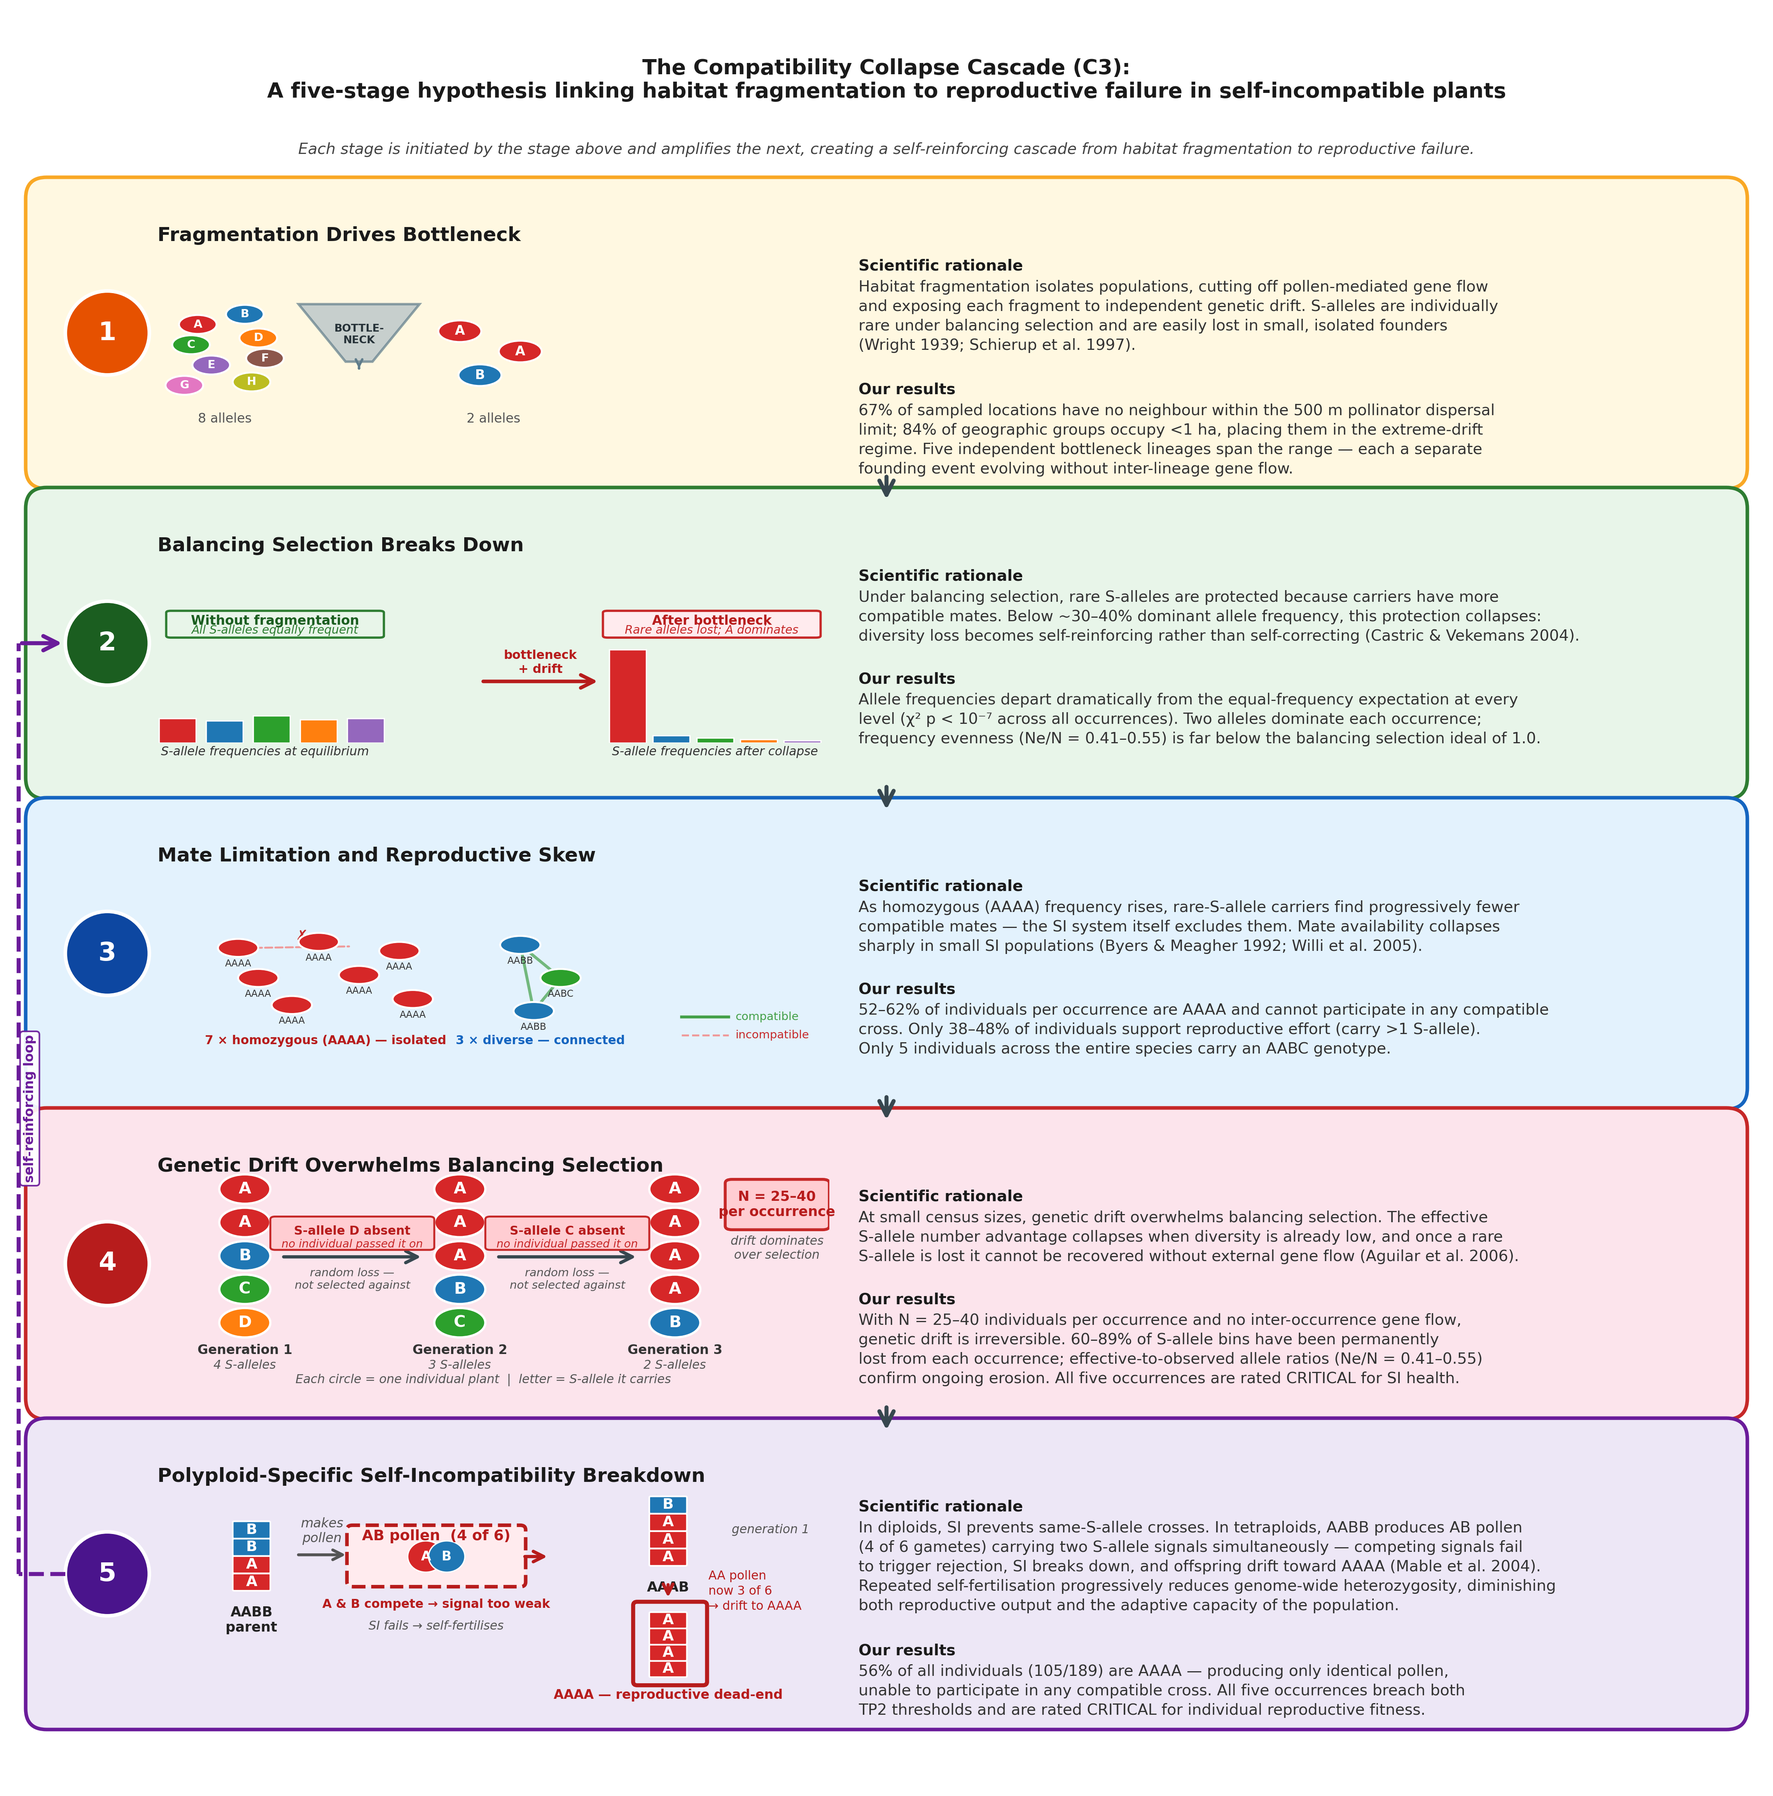
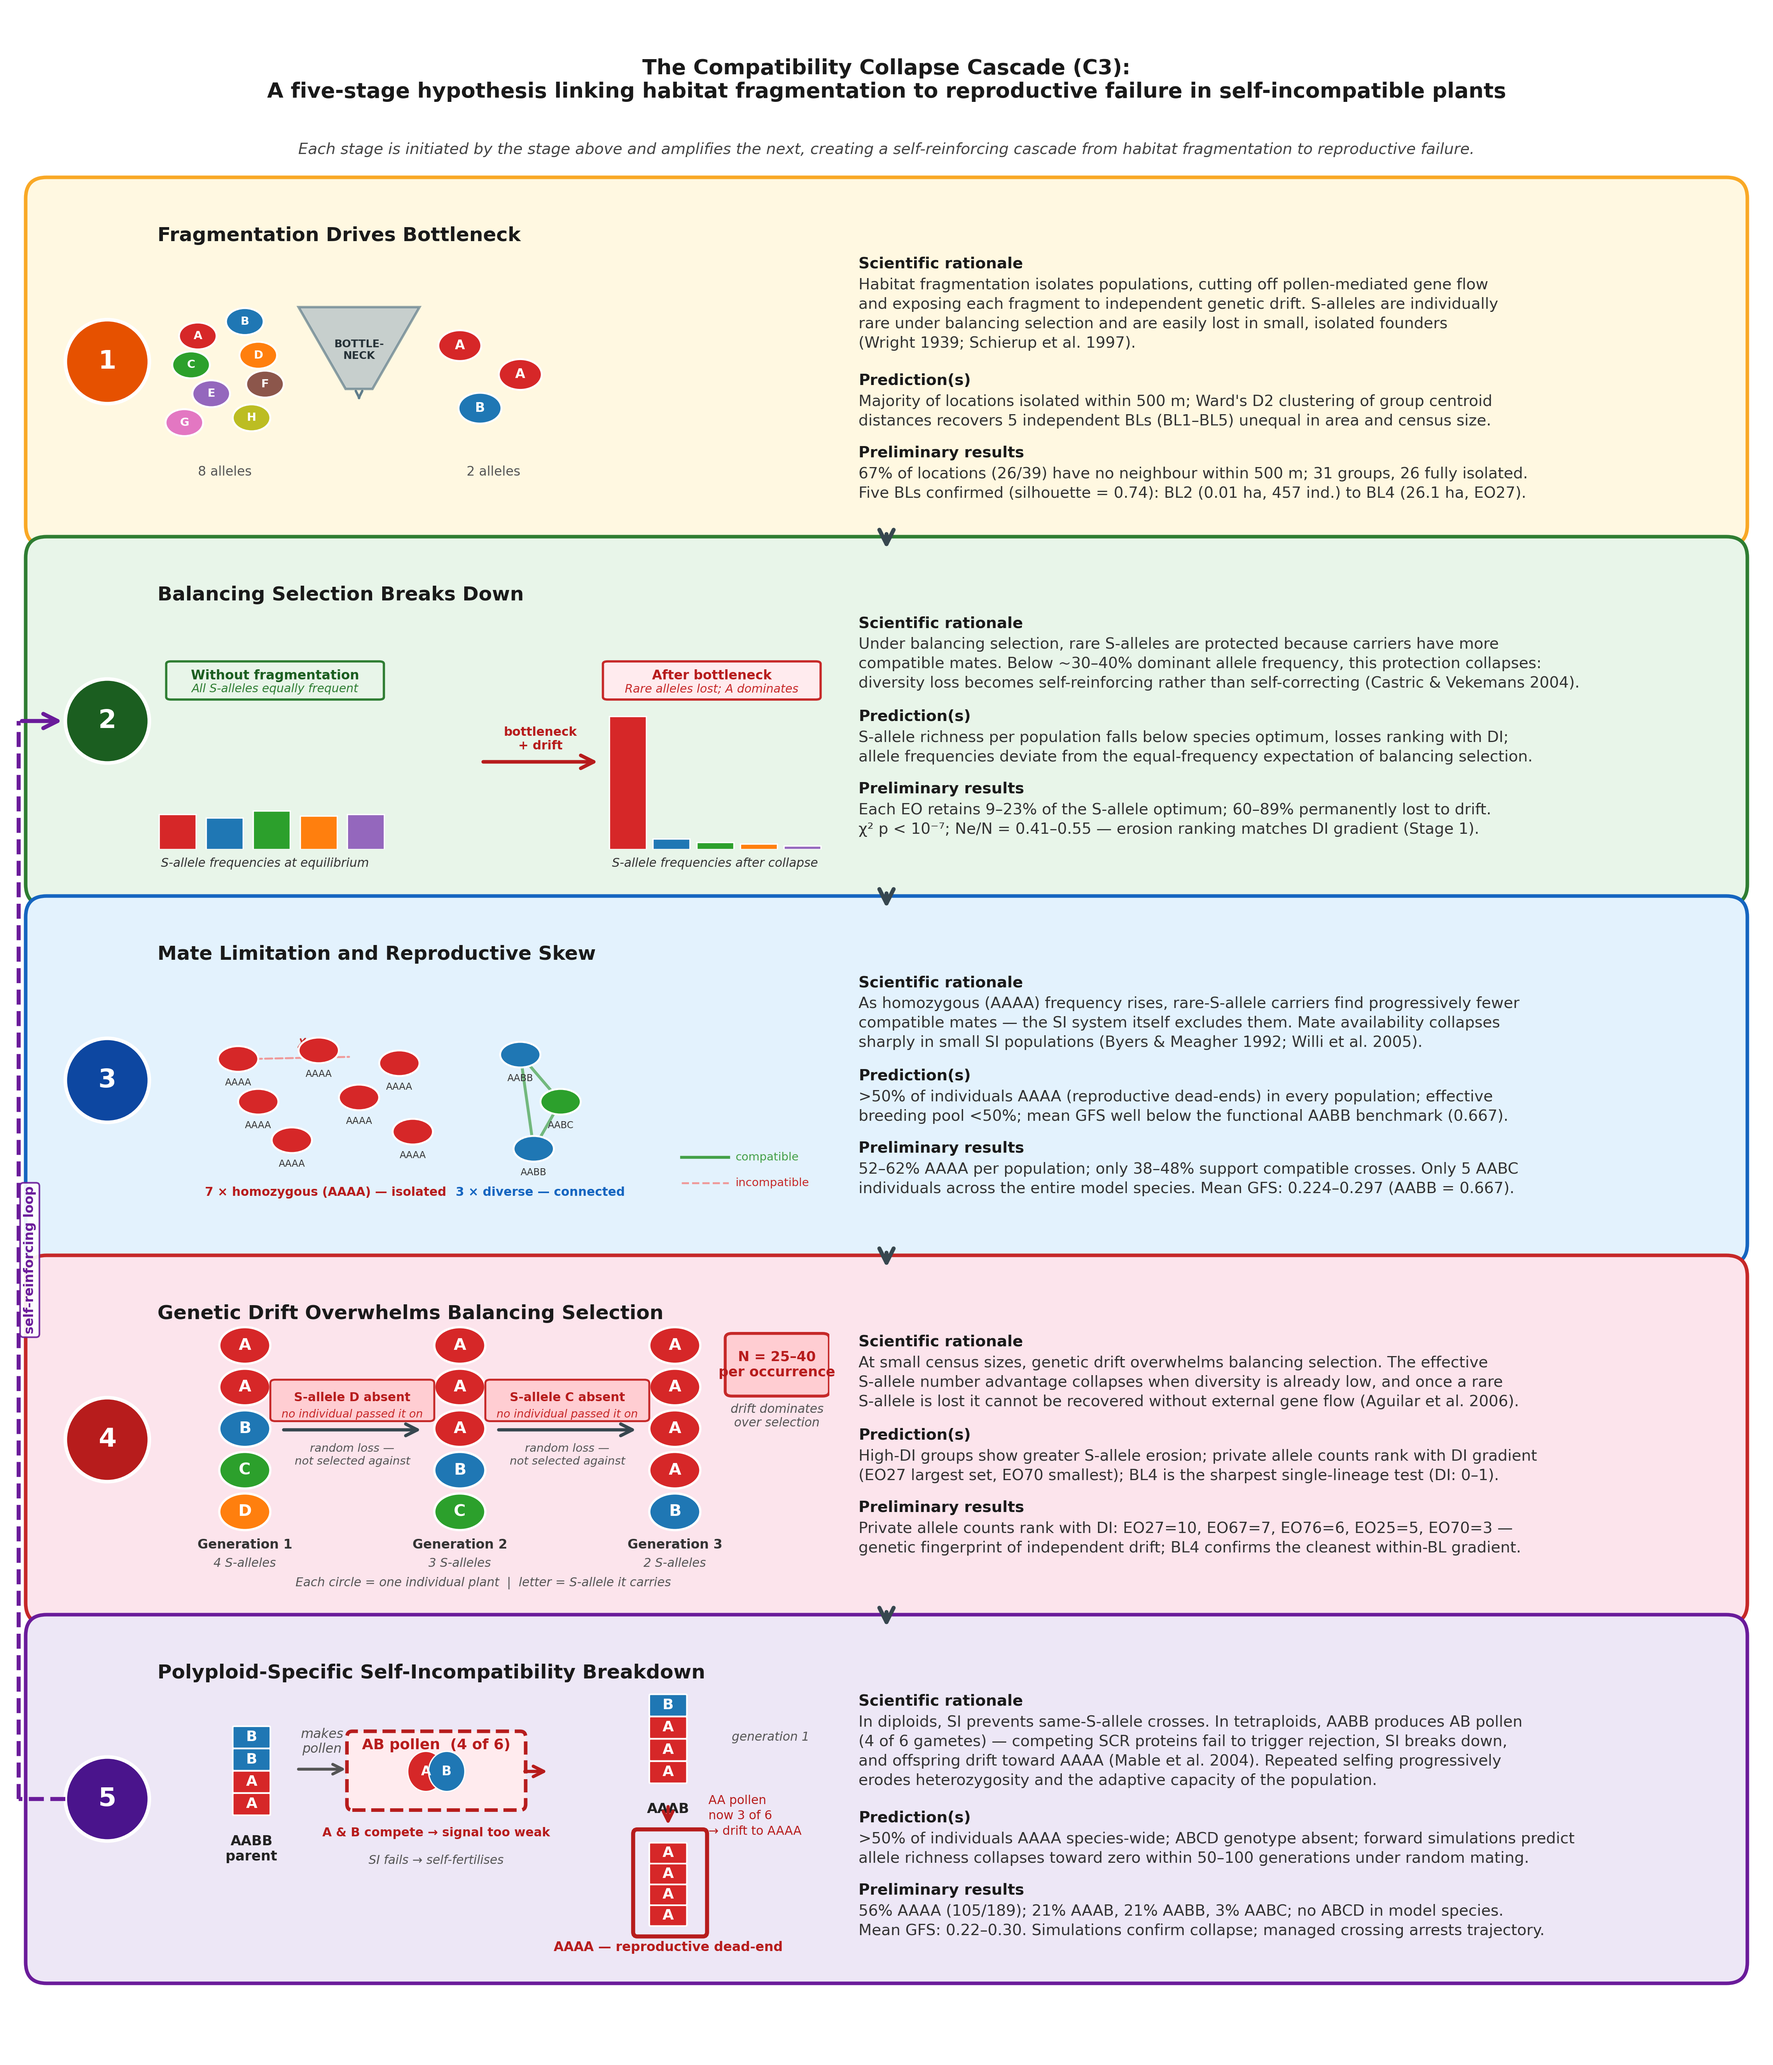
Updated C3 figure/code

diff --git a/Scripts/SRK_AAAA_cascade_hypothesis.py b/Scripts/SRK_AAAA_cascade_hypothesis.py
@@ -61,68 +61,84 @@ TITLES = [
 
 # Two-part body text: (scientific rationale, our results)
 BODY_SCI = [
-    # Stage 1
+    # Stage 1  (4 lines — general, broad)
     ("Habitat fragmentation isolates populations, cutting off pollen-mediated gene flow\n"
      "and exposing each fragment to independent genetic drift. S-alleles are individually\n"
      "rare under balancing selection and are easily lost in small, isolated founders\n"
      "(Wright 1939; Schierup et al. 1997)."),
 
-    # Stage 2
+    # Stage 2  (3 lines)
     ("Under balancing selection, rare S-alleles are protected because carriers have more\n"
      "compatible mates. Below ~30–40% dominant allele frequency, this protection collapses:\n"
      "diversity loss becomes self-reinforcing rather than self-correcting (Castric & Vekemans 2004)."),
 
-    # Stage 3
+    # Stage 3  (3 lines)
     ("As homozygous (AAAA) frequency rises, rare-S-allele carriers find progressively fewer\n"
      "compatible mates — the SI system itself excludes them. Mate availability collapses\n"
      "sharply in small SI populations (Byers & Meagher 1992; Willi et al. 2005)."),
 
-    # Stage 4
+    # Stage 4  (3 lines)
     ("At small census sizes, genetic drift overwhelms balancing selection. The effective\n"
      "S-allele number advantage collapses when diversity is already low, and once a rare\n"
      "S-allele is lost it cannot be recovered without external gene flow (Aguilar et al. 2006)."),
 
-    # Stage 5
+    # Stage 5  (4 lines — trimmed from 5 to stay clear of pred header at offset 1.50)
     ("In diploids, SI prevents same-S-allele crosses. In tetraploids, AABB produces AB pollen\n"
-     "(4 of 6 gametes) carrying two S-allele signals simultaneously — competing signals fail\n"
-     "to trigger rejection, SI breaks down, and offspring drift toward AAAA (Mable et al. 2004).\n"
-     "Repeated self-fertilisation progressively reduces genome-wide heterozygosity, diminishing\n"
-     "both reproductive output and the adaptive capacity of the population."),
+     "(4 of 6 gametes) — competing SCR proteins fail to trigger rejection, SI breaks down,\n"
+     "and offspring drift toward AAAA (Mable et al. 2004). Repeated selfing progressively\n"
+     "erodes heterozygosity and the adaptive capacity of the population."),
 ]
 
-BODY_RES = [
+# Predictions — specific to the model species; prospective / testable (2 lines each)
+BODY_PRED = [
     # Stage 1
-    ("67% of sampled locations have no neighbour within the 500 m pollinator dispersal\n"
-     "limit; 84% of geographic groups occupy <1 ha, placing them in the extreme-drift\n"
-     "regime. Five independent bottleneck lineages span the range — each a separate\n"
-     "founding event evolving without inter-lineage gene flow."),
+    ("Majority of locations isolated within 500 m; Ward's D2 clustering of group centroid\n"
+     "distances recovers 5 independent BLs (BL1–BL5) unequal in area and census size."),
 
     # Stage 2
-    ("Allele frequencies depart dramatically from the equal-frequency expectation at every\n"
-     "level (χ² p < 10⁻⁷ across all occurrences). Two alleles dominate each occurrence;\n"
-     "frequency evenness (Ne/N = 0.41–0.55) is far below the balancing selection ideal of 1.0."),
+    ("S-allele richness per population falls below species optimum, losses ranking with DI;\n"
+     "allele frequencies deviate from the equal-frequency expectation of balancing selection."),
 
     # Stage 3
-    ("52–62% of individuals per occurrence are AAAA and cannot participate in any compatible\n"
-     "cross. Only 38–48% of individuals support reproductive effort (carry >1 S-allele).\n"
-     "Only 5 individuals across the entire species carry an AABC genotype."),
+    (">50% of individuals AAAA (reproductive dead-ends) in every population; effective\n"
+     "breeding pool <50%; mean GFS well below the functional AABB benchmark (0.667)."),
 
     # Stage 4
-    ("With N = 25–40 individuals per occurrence and no inter-occurrence gene flow,\n"
-     "genetic drift is irreversible. 60–89% of S-allele bins have been permanently\n"
-     "lost from each occurrence; effective-to-observed allele ratios (Ne/N = 0.41–0.55)\n"
-     "confirm ongoing erosion. All five occurrences are rated CRITICAL for SI health."),
+    ("High-DI groups show greater S-allele erosion; private allele counts rank with DI gradient\n"
+     "(EO27 largest set, EO70 smallest); BL4 is the sharpest single-lineage test (DI: 0–1)."),
 
     # Stage 5
-    ("56% of all individuals (105/189) are AAAA — producing only identical pollen,\n"
-     "unable to participate in any compatible cross. All five occurrences breach both\n"
-     "TP2 thresholds and are rated CRITICAL for individual reproductive fitness."),
+    (">50% of individuals AAAA species-wide; ABCD genotype absent; forward simulations predict\n"
+     "allele richness collapses toward zero within 50–100 generations under random mating."),
+]
+
+# Preliminary results — what was observed in the model species (2 lines each)
+BODY_RES = [
+    # Stage 1
+    ("67% of locations (26/39) have no neighbour within 500 m; 31 groups, 26 fully isolated.\n"
+     "Five BLs confirmed (silhouette = 0.74): BL2 (0.01 ha, 457 ind.) to BL4 (26.1 ha, EO27)."),
+
+    # Stage 2
+    ("Each EO retains 9–23% of the S-allele optimum; 60–89% permanently lost to drift.\n"
+     "χ² p < 10⁻⁷; Ne/N = 0.41–0.55 — erosion ranking matches DI gradient (Stage 1)."),
+
+    # Stage 3
+    ("52–62% AAAA per population; only 38–48% support compatible crosses. Only 5 AABC\n"
+     "individuals across the entire model species. Mean GFS: 0.224–0.297 (AABB = 0.667)."),
+
+    # Stage 4
+    ("Private allele counts rank with DI: EO27=10, EO67=7, EO76=6, EO25=5, EO70=3 —\n"
+     "genetic fingerprint of independent drift; BL4 confirms the cleanest within-BL gradient."),
+
+    # Stage 5
+    ("56% AAAA (105/189); 21% AAAB, 21% AABB, 3% AABC; no ABCD in model species.\n"
+     "Mean GFS: 0.22–0.30. Simulations confirm collapse; managed crossing arrests trajectory."),
 ]
 
 # ─── figure geometry (data units = inches) ────────────────────────────────────
-FW, FH  = 15.0, 15.2   # figure dimensions in inches
-BOX_H   = 2.31          # stage box height (was 3.6)
-GAP     = 0.35          # gap between boxes / arrow space (was 0.42)
+FW, FH  = 15.0, 17.5   # figure dimensions in inches
+BOX_H   = 2.80          # stage box height — increased for three-section layout
+GAP     = 0.28          # gap between boxes / arrow space
 MX      = 0.30          # left/right margin
 BOX_W   = FW - 2 * MX  # stage box width
 
@@ -203,7 +219,7 @@ ax.text(FW / 2, TITLE_Y - 0.72,
 
 
 # ─── STAGE BOXES ──────────────────────────────────────────────────────────────
-def draw_stage(i, res_offset=1.40):
+def draw_stage(i, pred_offset=1.30, res_offset=1.92):
     bg, edge, bfc = STAGE_PALETTE[i]
     y_top = STAGE_Y[i]
     y_bot = y_top - BOX_H
@@ -214,21 +230,29 @@ def draw_stage(i, res_offset=1.40):
     # Badge
     badge(BADGE_X, y_bot + BOX_H / 2, i + 1, bfc)
 
-    # Stage title — left-aligned, flush with schematic left edge (beside badge)
+    # Stage title
     ax.text(SCH_X0, y_top - 0.24, TITLES[i],
             ha='left', va='top', fontsize=12, fontweight='bold',
             color='#1A1A1A', zorder=4)
 
-    # Section 1: Scientific rationale
-    ax.text(TEXT_X0, y_top - 0.52, 'Scientific rationale',
+    # Section 1: Scientific rationale (broad, general)
+    ax.text(TEXT_X0, y_top - 0.50, 'Scientific rationale',
             ha='left', va='top', fontsize=9.5, fontweight='bold',
             color='#1A1A1A', zorder=4)
-    ax.text(TEXT_X0, y_top - 0.70, BODY_SCI[i],
+    ax.text(TEXT_X0, y_top - 0.68, BODY_SCI[i],
             ha='left', va='top', fontsize=9.5, color='#333333',
             linespacing=1.40, zorder=4)
 
-    # Section 2: Our results
-    ax.text(TEXT_X0, y_top - res_offset, 'Our results',
+    # Section 2: Prediction(s) (model-species specific)
+    ax.text(TEXT_X0, y_top - pred_offset, 'Prediction(s)',
+            ha='left', va='top', fontsize=9.5, fontweight='bold',
+            color='#1A1A1A', zorder=4)
+    ax.text(TEXT_X0, y_top - pred_offset - 0.18, BODY_PRED[i],
+            ha='left', va='top', fontsize=9.5, color='#333333',
+            linespacing=1.40, zorder=4)
+
+    # Section 3: Preliminary results (model-species specific)
+    ax.text(TEXT_X0, y_top - res_offset, 'Preliminary results',
             ha='left', va='top', fontsize=9.5, fontweight='bold',
             color='#1A1A1A', zorder=4)
     ax.text(TEXT_X0, y_top - res_offset - 0.18, BODY_RES[i],
@@ -241,7 +265,7 @@ def draw_stage(i, res_offset=1.40):
 
 
 # ─── SCHEMATIC 1: Bottleneck ──────────────────────────────────────────────────
-ax1 = draw_stage(0, res_offset=1.58)
+ax1 = draw_stage(0, pred_offset=1.50, res_offset=2.12)
 ax1.set_xlim(0, 10)
 ax1.set_ylim(0, 4)
 
@@ -281,7 +305,7 @@ ax1.text(1.0, 0.3, '8 alleles', ha='center', fontsize=8, color='#555')
 ax1.text(5.0, 0.3, '2 alleles', ha='center', fontsize=8, color='#555')
 
 # ─── SCHEMATIC 2: Balancing Selection Breakdown ───────────────────────────────
-ax2 = draw_stage(1)
+ax2 = draw_stage(1, pred_offset=1.30, res_offset=1.92)
 ax2.set_xlim(0, 10)
 ax2.set_ylim(0, 5.5)
 
@@ -334,7 +358,7 @@ ax2.text(8.3, -0.5, 'S-allele frequencies after collapse', ha='center', fontsize
          color='#333', style='italic')
 
 # ─── SCHEMATIC 3: Mate Limitation ────────────────────────────────────────────
-ax3 = draw_stage(2)
+ax3 = draw_stage(2, pred_offset=1.30, res_offset=1.92)
 ax3.set_xlim(0, 10)
 ax3.set_ylim(0, 4.5)
 
@@ -381,7 +405,7 @@ ax3.text(5.7, 0.3, '3 × diverse — connected', ha='center', fontsize=7.5,
 
 # ─── SCHEMATIC 4: Genetic Drift ──────────────────────────────────────────────
 # Use a custom taller inset so the schematic has more room
-draw_stage(3)
+draw_stage(3, pred_offset=1.30, res_offset=1.92)
 _y4_bot = STAGE_Y[3] - BOX_H
 ax4 = inset(SCH_X0, _y4_bot + 0.10, SCH_W, BOX_H - 0.30)
 ax4.set_facecolor('none')
@@ -461,7 +485,7 @@ ax4.text(9.22, 3.35, 'drift dominates\nover selection', ha='center', va='top',
 # ─── SCHEMATIC 5: Polyploid SI Breakdown — clean 3-zone layout ────────────────
 # Use a custom inset with minimal padding so the schematic is taller
 # res_offset pushed down to clear the 5-line scientific rationale text
-draw_stage(4, res_offset=1.75)
+draw_stage(4, pred_offset=1.50, res_offset=2.12)
 _y5_bot = STAGE_Y[4] - BOX_H
 ax5 = inset(SCH_X0, _y5_bot + 0.12, SCH_W, BOX_H - 0.57)
 ax5.set_xlim(0, 10)
